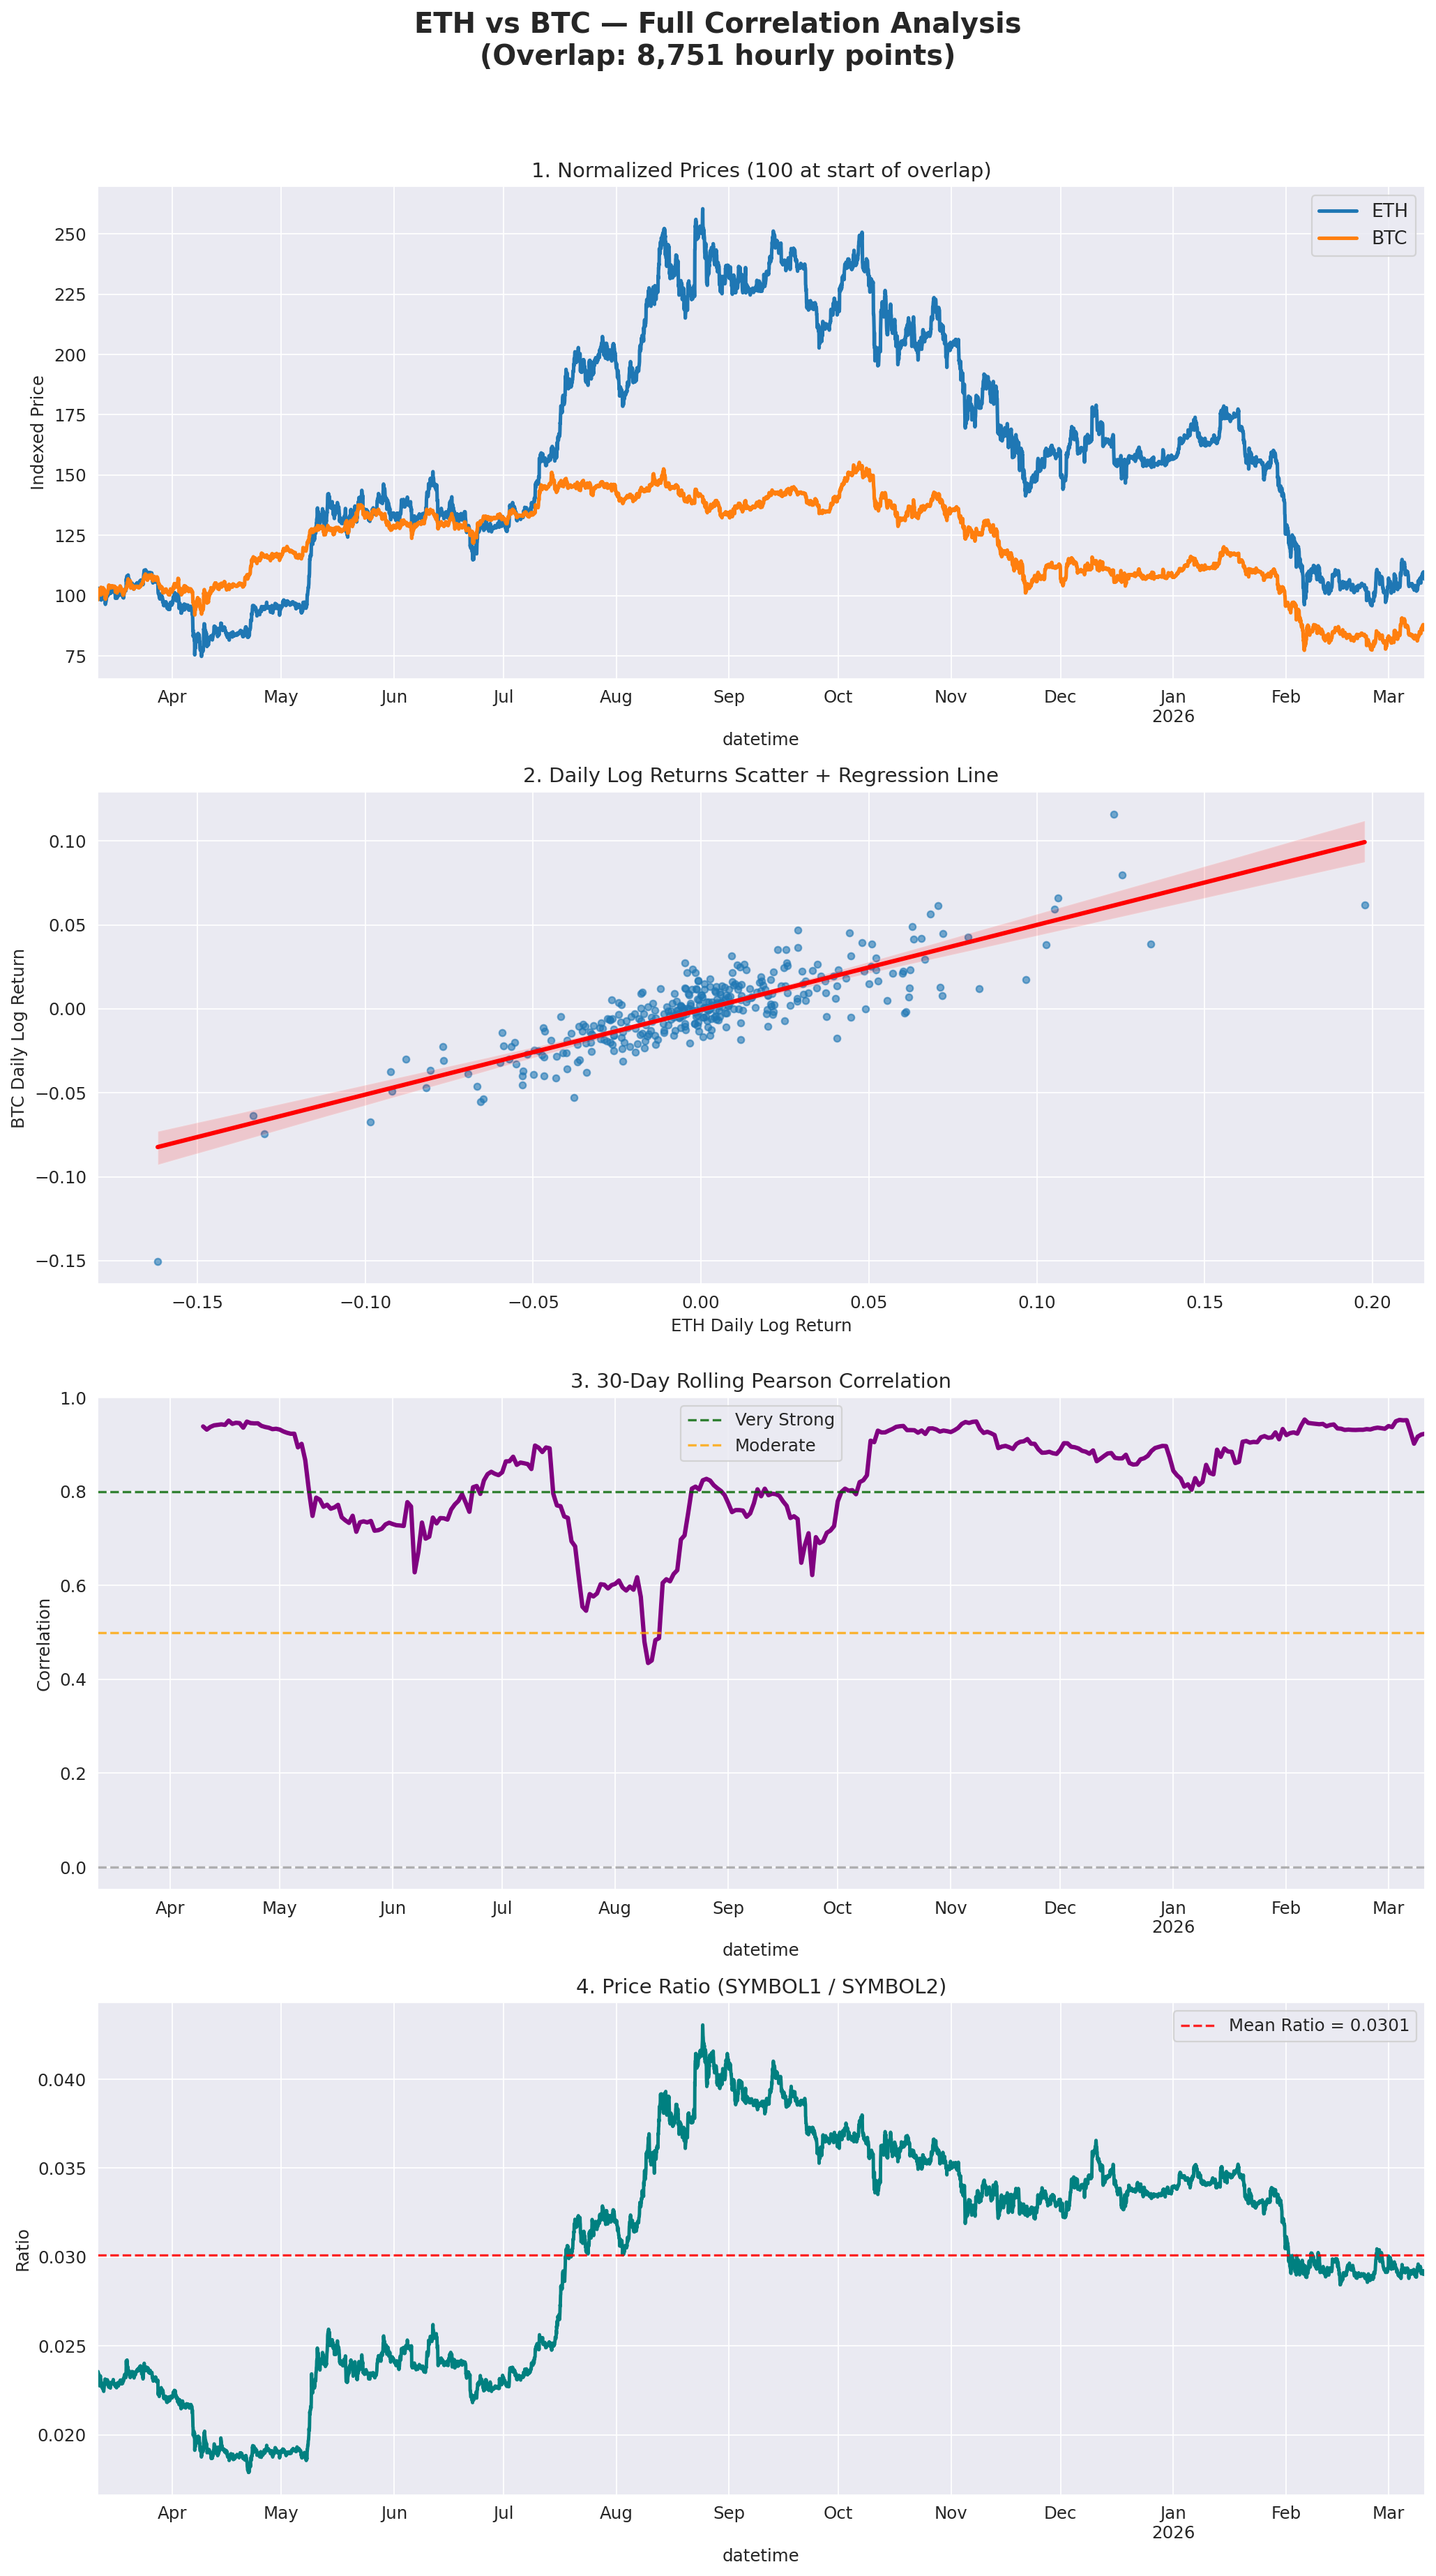
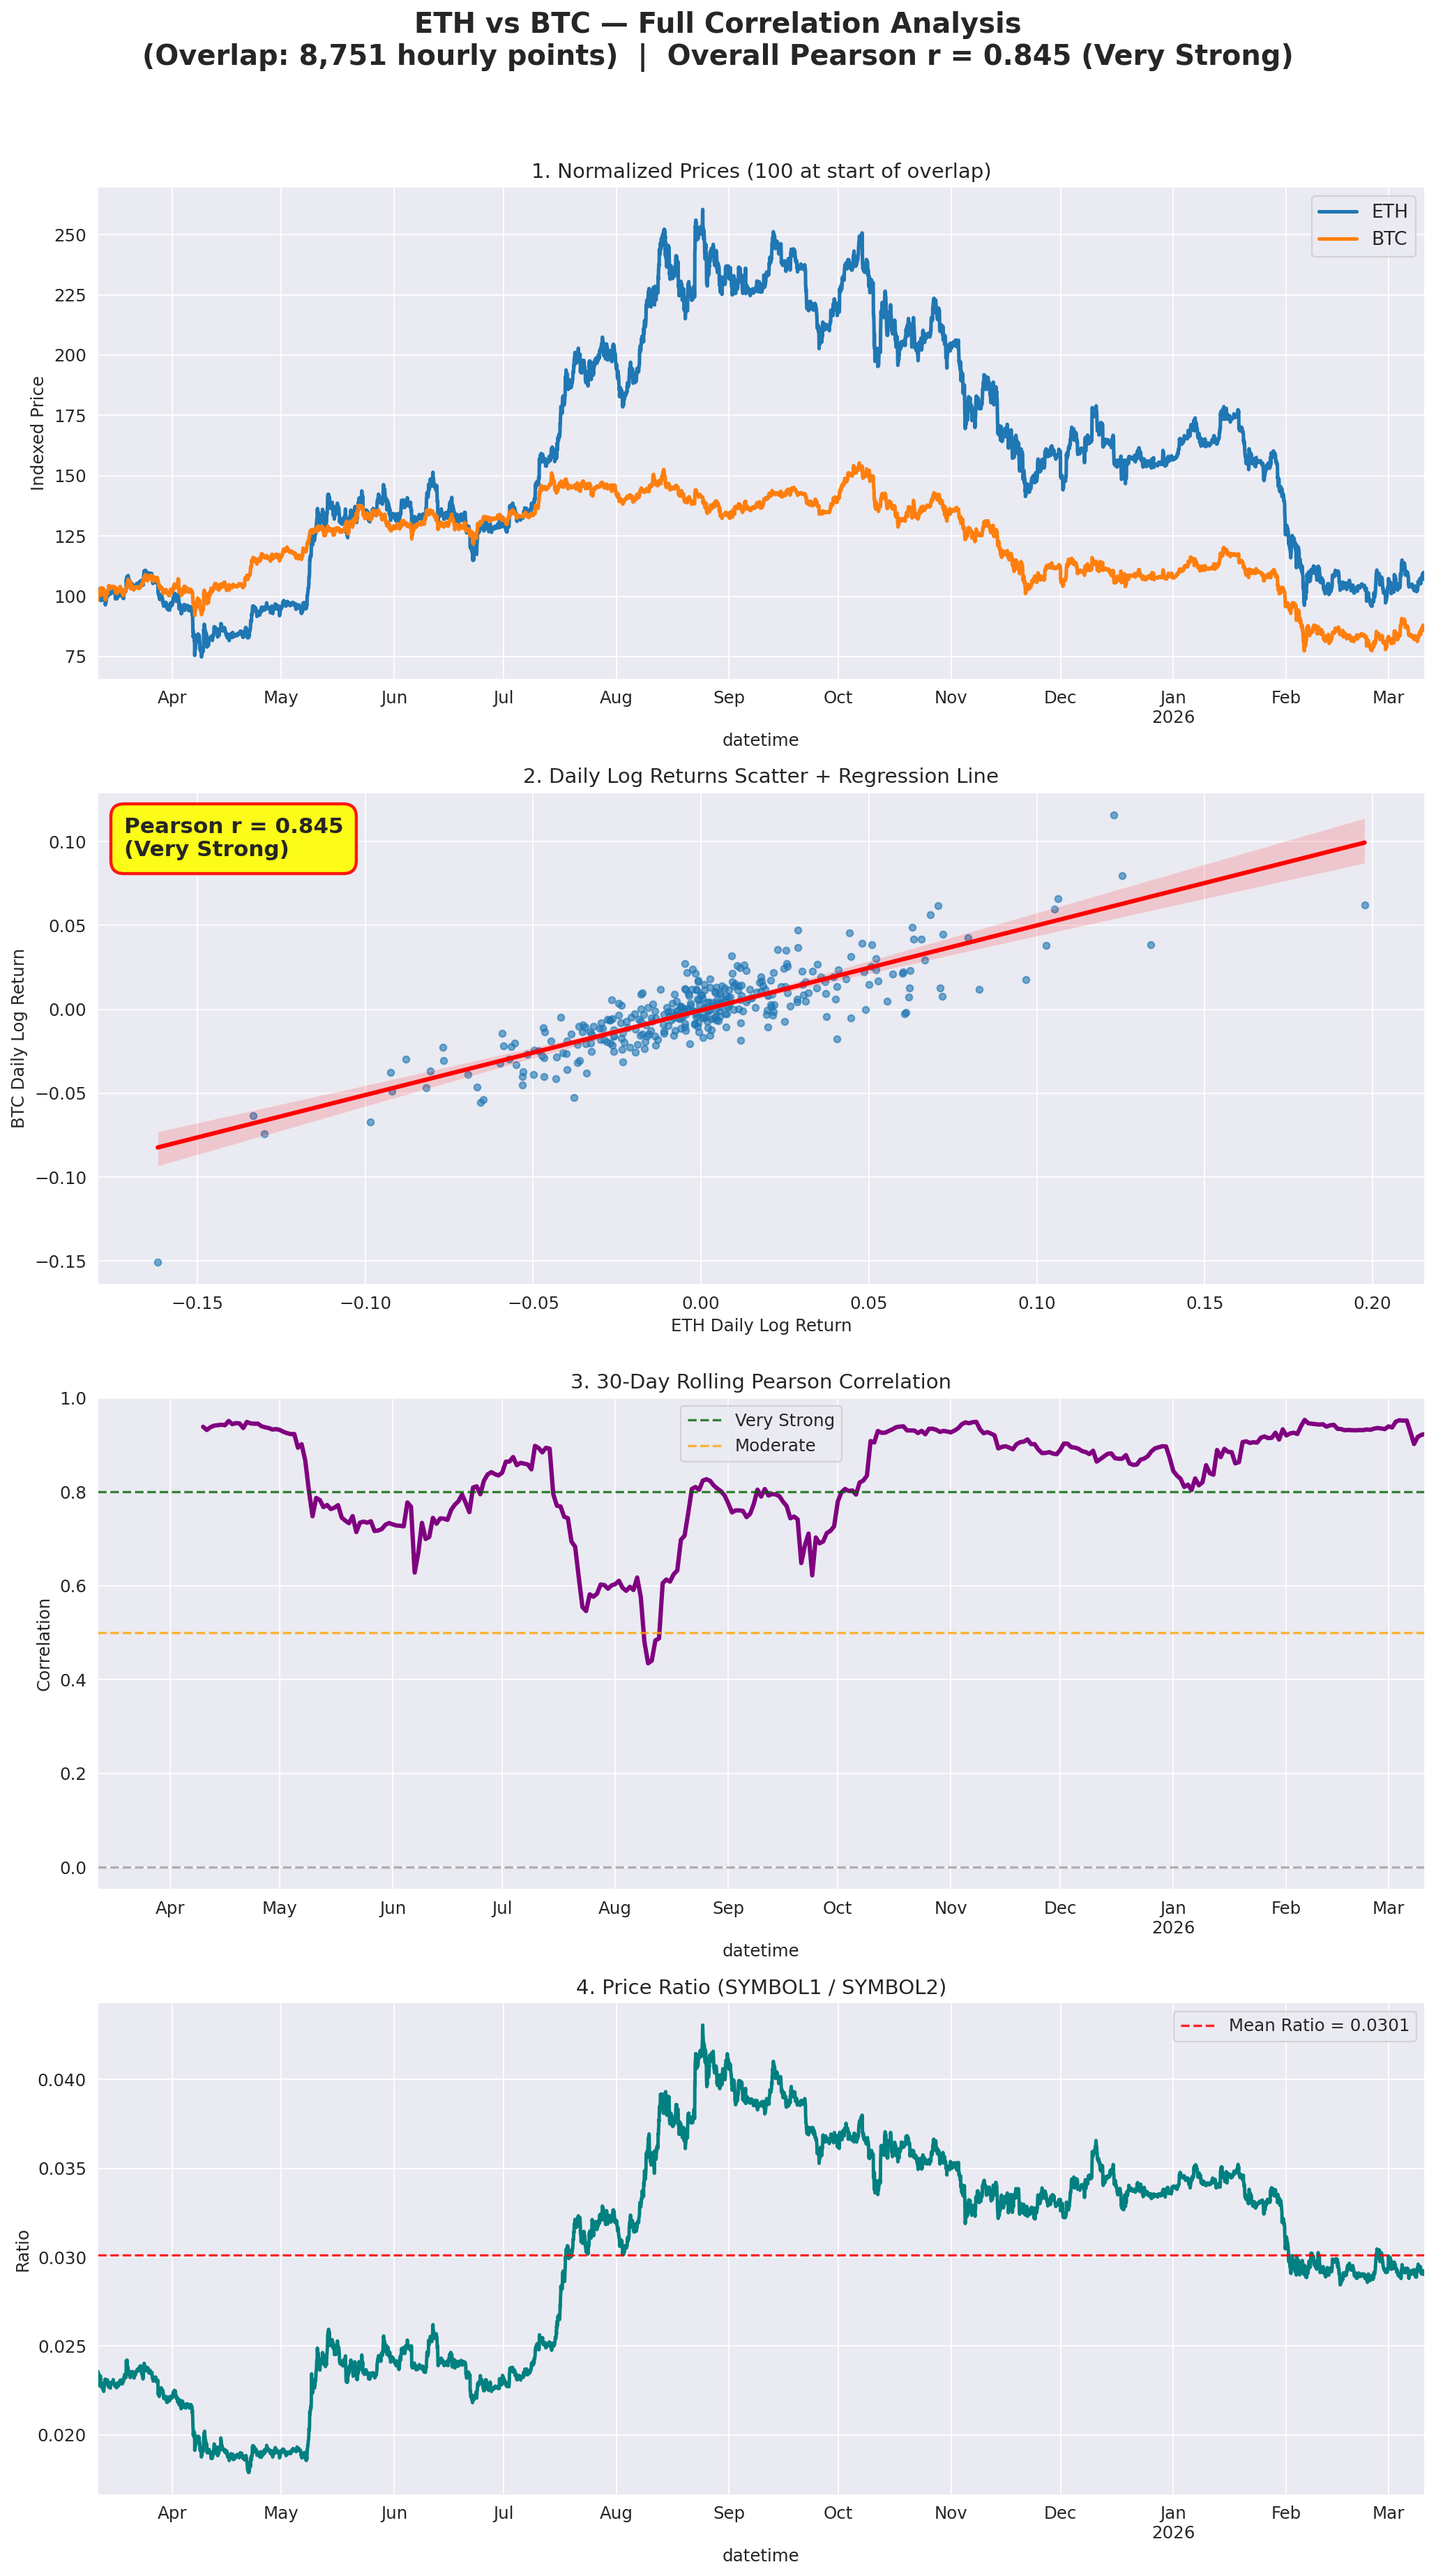
save

diff --git a/src/pcv2/draw_correlation_chart.py b/src/pcv2/draw_correlation_chart.py
@@ -20,7 +20,7 @@ class CorrelationChartDrawer:
         analyzer = CorrelationAnalyzer(self.sym1, self.sym2, self.file_path)
         analyzer.run()
 
-        # Safety check (uses the data we exposed)
+        # Safety check
         if not hasattr(analyzer, 'prices') or len(analyzer.prices) < 200:
             print("⚠  Not enough overlapping data for meaningful charts.")
             return
@@ -28,30 +28,51 @@ class CorrelationChartDrawer:
         prices = analyzer.prices
         daily_logret = analyzer.daily_logret
 
+        # === Compute overall Pearson correlation (for highlight) ===
+        corr = daily_logret[self.sym1].corr(daily_logret[self.sym2])
+        if abs(corr) >= 0.8:
+            strength = "Very Strong"
+        elif abs(corr) >= 0.5:
+            strength = "Moderate"
+        elif abs(corr) >= 0.3:
+            strength = "Weak"
+        else:
+            strength = "Very Weak"
+
         # === One tall vertical figure with all 4 charts ===
         fig, axs = plt.subplots(4, 1, figsize=(13, 24), dpi=160)
         fig.suptitle(f"{self.sym1} vs {self.sym2} — Full Correlation Analysis\n"
-                     f"(Overlap: {len(prices):,} hourly points)", 
+                     f"(Overlap: {len(prices):,} hourly points)  |  "
+                     f"Overall Pearson r = {corr:.3f} ({strength})",
                      fontsize=18, fontweight='bold', y=0.98)
 
-        # 1. Normalized Price Overlay (the trader intuition chart)
+        # 1. Normalized Price Overlay
         norm = prices / prices.iloc[0] * 100
         norm.plot(ax=axs[0], linewidth=2.3)
         axs[0].set_title("1. Normalized Prices (100 at start of overlap)")
         axs[0].set_ylabel("Indexed Price")
         axs[0].legend(fontsize=12)
 
-        # 2. Log Returns Scatter + Regression (statistical truth)
+        # 2. Log Returns Scatter + Regression + HIGHLIGHTED CORRELATION
         x = daily_logret[self.sym1]
         y = daily_logret[self.sym2]
         sns.regplot(x=x, y=y, ax=axs[1],
                     scatter_kws={'alpha': 0.6, 's': 18, 'color': '#1f77b4'},
                     line_kws={'color': 'red', 'linewidth': 2.8})
+        
+        # === Highlighted correlation box (this is what you asked for) ===
+        axs[1].text(0.02, 0.95, f'Pearson r = {corr:.3f}\n({strength})',
+                    transform=axs[1].transAxes,
+                    fontsize=14, fontweight='bold',
+                    verticalalignment='top',
+                    bbox=dict(boxstyle="round,pad=0.6", facecolor="yellow", 
+                              alpha=0.9, edgecolor="red", linewidth=2))
+
         axs[1].set_title("2. Daily Log Returns Scatter + Regression Line")
         axs[1].set_xlabel(f"{self.sym1} Daily Log Return")
         axs[1].set_ylabel(f"{self.sym2} Daily Log Return")
 
-        # 3. Rolling Correlation (the "is this real?" chart)
+        # 3. Rolling Correlation
         window = 30
         rolling = daily_logret[self.sym1].rolling(window=window).corr(daily_logret[self.sym2])
         rolling.plot(ax=axs[2], color='purple', linewidth=2.8)
@@ -62,7 +83,7 @@ class CorrelationChartDrawer:
         axs[2].set_ylabel("Correlation")
         axs[2].legend()
 
-        # 4. Price Ratio (pairs-trading / structural shift detector)
+        # 4. Price Ratio
         ratio = prices[self.sym1] / prices[self.sym2]
         ratio.plot(ax=axs[3], color='teal', linewidth=2.2)
         mean_r = ratio.mean()
@@ -74,11 +95,12 @@ class CorrelationChartDrawer:
 
         plt.tight_layout(rect=[0, 0.02, 1, 0.96])
 
-        # Save & show
+        # Save (no pause)
         filename = f"correlation_{self.sym1}_vs_{self.sym2}.png"
         plt.savefig(filename, bbox_inches='tight', facecolor='white')
-        print(f"\n✅ Saved: {filename}  (open it — all 4 charts vertically stacked)")
-        plt.show()
+        print(f"\n✅ Saved: {filename}  (correlation value is now highlighted in yellow on chart #2)")
+
+        # plt.show()  # ← commented out so it never pauses
 
 
 if __name__ == "__main__":
